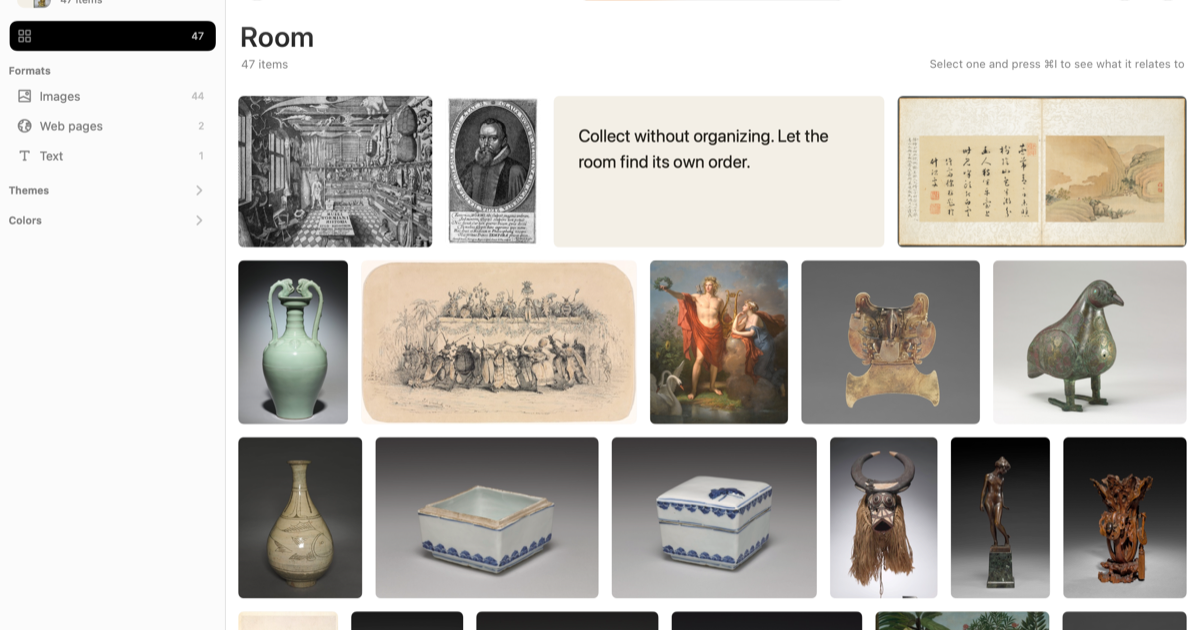
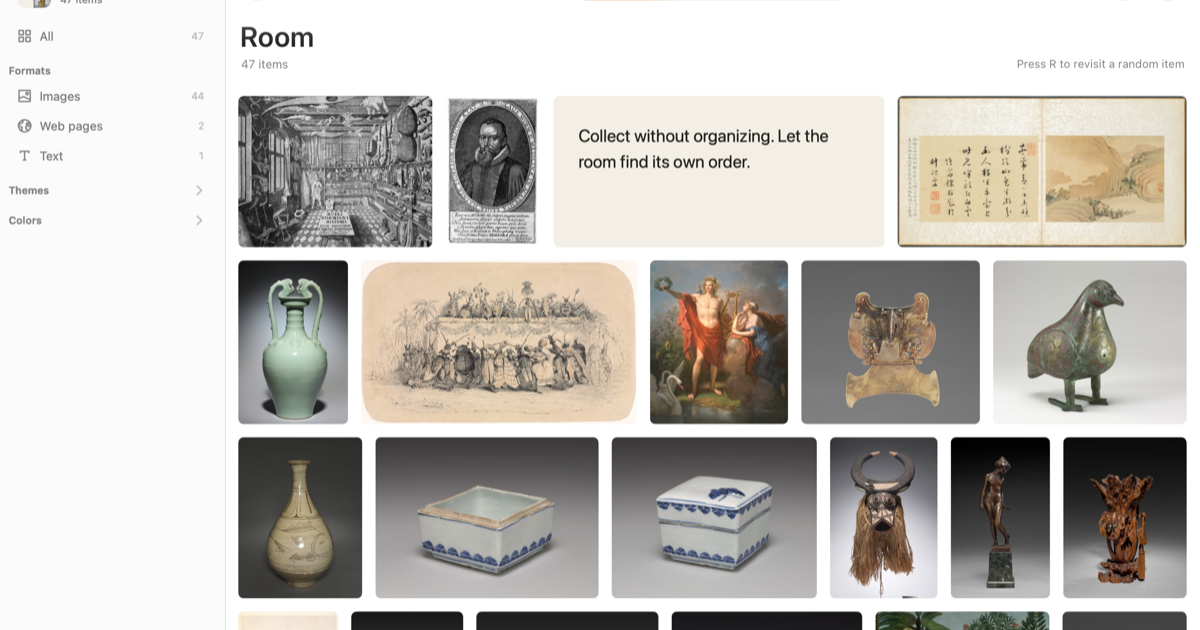
網站截圖改用乾淨的側欄（自繪截圖時清掉選取列）；Pages 工作流程的 actions 固定到 commit、checkout 不保留憑證

Changed region(s): [[0.0, 0.0302, 0.185, 0.0905], [0.7708, 0.0905, 0.9867, 0.1206]]

diff --git a/Wunderkammer/App/SelfTest.swift b/Wunderkammer/App/SelfTest.swift
@@ -1493,19 +1493,23 @@ final class SelfTest {
         ui.sidebar.select(.all)
         ui.setMode(.grid)
         await wait(1.5)
+        ui.sidebar.clearHighlightForTest()
         shot("showcase-1-collection")
         ui.setMode(.masonry)
         await wait(1.5)
+        ui.sidebar.clearHighlightForTest()
         shot("showcase-2-masonry")
         ui.search("butterfly")
         await wait(2)
+        ui.sidebar.clearHighlightForTest()
         shot("showcase-3-search")
         ui.search("")
         ui.setMode(.grid)
         if let first = Subjects.discover(in: library.items).first {
             ui.sidebar.select(.subject(first.label))
             await wait(1.2)
-            shot("showcase-4-theme")
+            ui.sidebar.clearHighlightForTest()
+        shot("showcase-4-theme")
             ui.sidebar.select(.all)
         }
         if let pick = library.items.first(where: { $0.originalFilename.hasPrefix("Butterfly") }) {
@@ -1513,11 +1517,13 @@ final class SelfTest {
             ui.inspectForTest(pick.id)
             ui.grid.reveal(pick.id)
             await wait(1.5)
-            shot("showcase-5-inspector")
+            ui.sidebar.clearHighlightForTest()
+        shot("showcase-5-inspector")
             ui.toggleInspectorForTest()
         }
         ui.setSpace(.wander)
         await wait(3)
+        ui.sidebar.clearHighlightForTest()
         shot("showcase-6-wander")
         ui.setSpace(.map)
         await wait(1)
@@ -1525,6 +1531,7 @@ final class SelfTest {
         await wait(1)
         ui.canvas.fit(animated: false)
         await wait(1.5)
+        ui.sidebar.clearHighlightForTest()
         shot("showcase-7-workbench")
         ui.setSpace(.cabinet)
     }

diff --git a/Wunderkammer/Cabinet/SidebarViewController.swift b/Wunderkammer/Cabinet/SidebarViewController.swift
@@ -277,6 +277,9 @@ final class SidebarViewController: NSViewController, NSTableViewDataSource, NSTa
 
     // MARK: Table
 
+    /// No row looks chosen (screenshots drawn by the window itself show the selection as a black bar).
+    func clearHighlightForTest() { table.deselectAll(nil) }
+
     func numberOfRows(in tableView: NSTableView) -> Int { rows.count }
 
     /// Headers are ordinary rows (not group rows): laid out in the same frame
